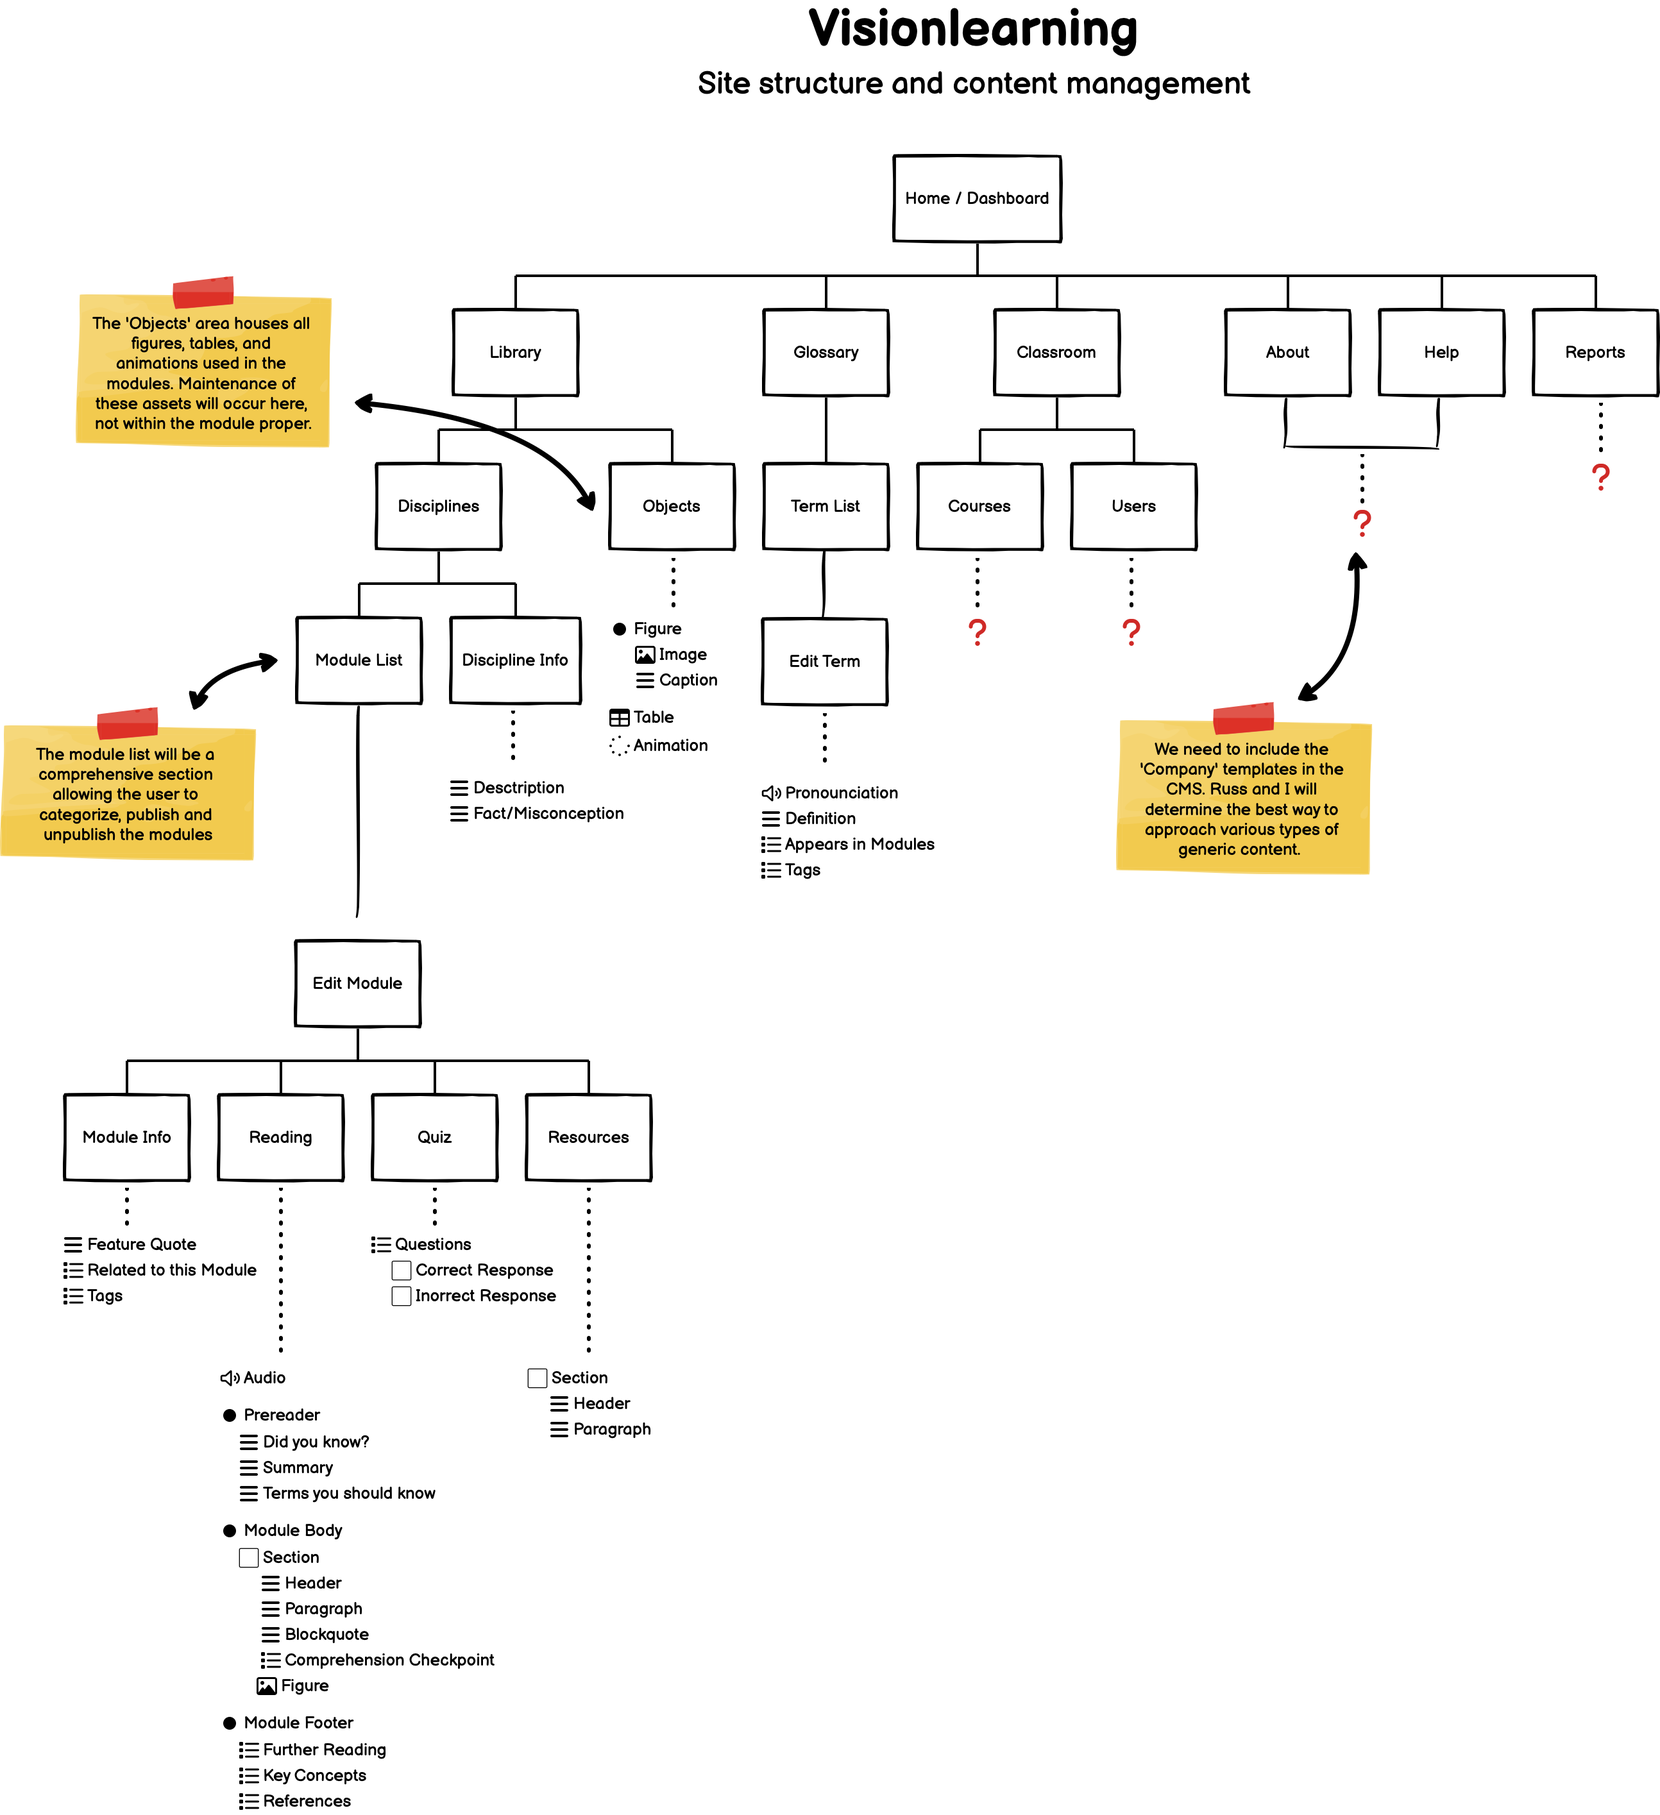
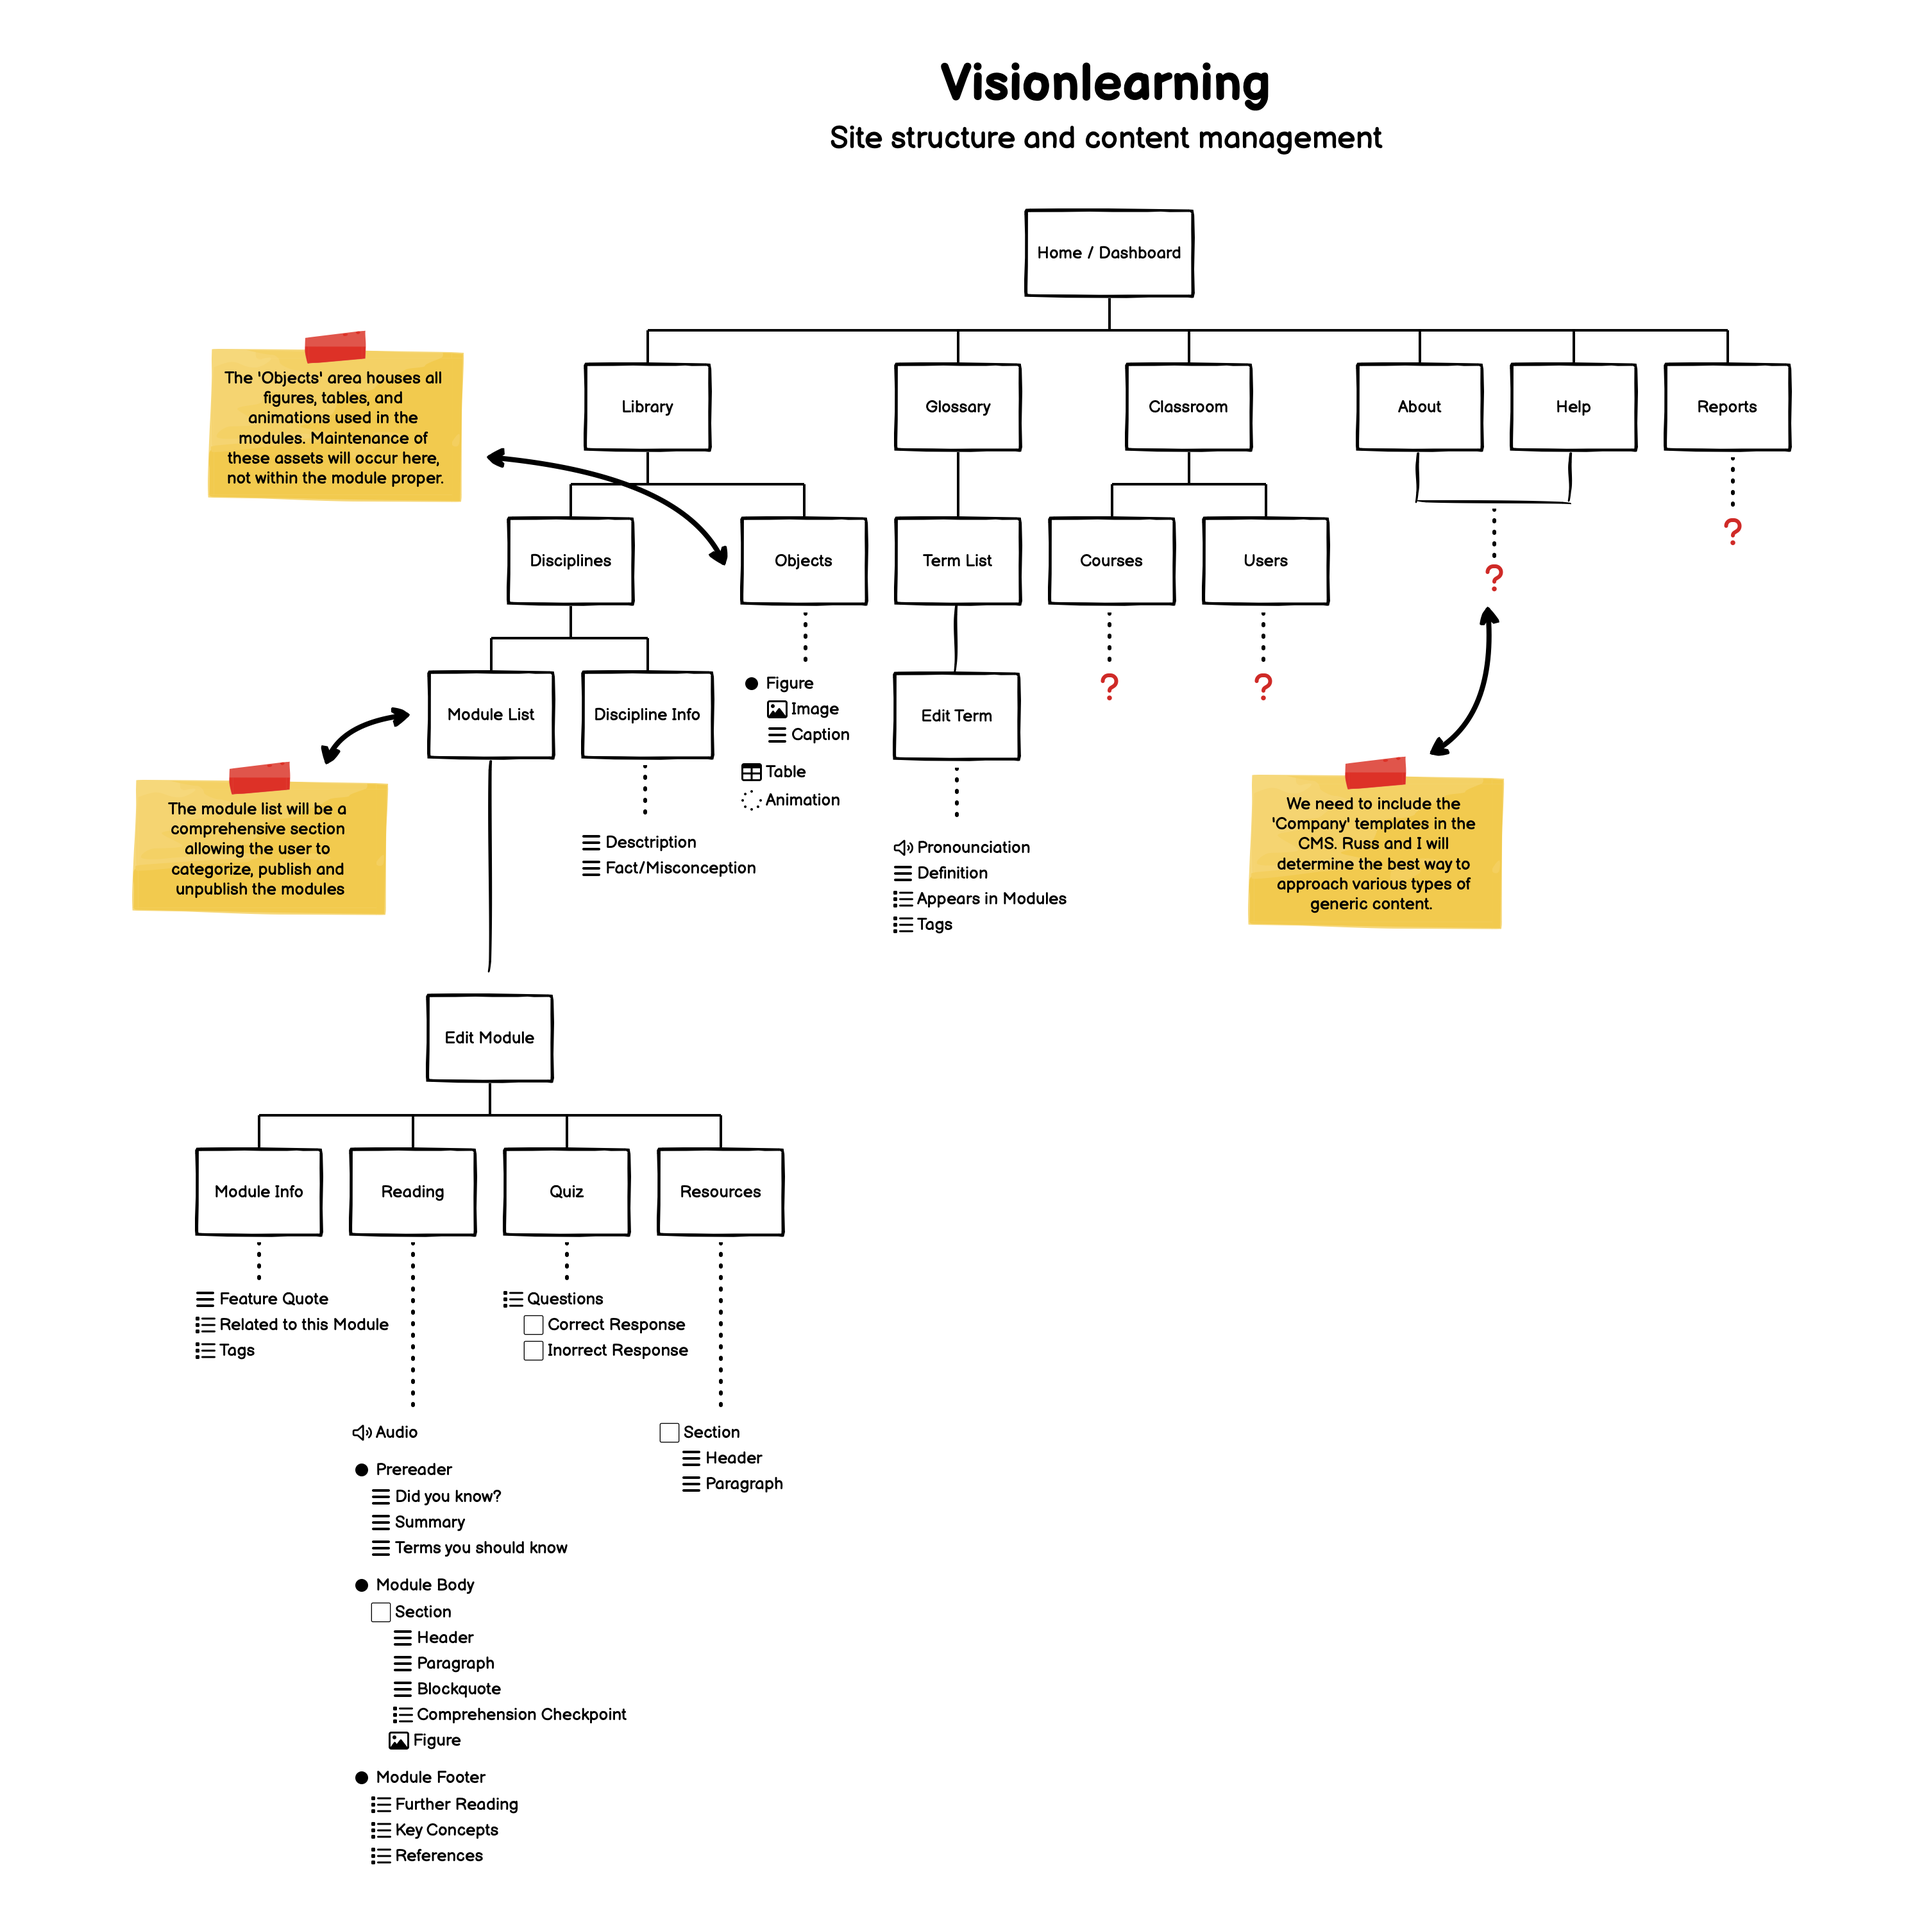
Refresh padded site map and remove Natura11y section

diff --git a/context/case-studies.md b/context/case-studies.md
@@ -634,3 +634,10 @@ Carl requested removing the large homepage-evolution figure from Looking back be
 ### September 29 public-site wireframes consolidated
 
 Carl requested one six-screen grid with a brief introduction, allowing the clear images to carry the sequence as in Phoenix. Pushed `visionlearning-case-study` at `c4e4d85` and `visionlearning-legacy` at `5220624` to GitHub before editing. Consolidated Homepage, Browsing a discipline, Glossary, Reading, Quiz, and Quiz results into one three-column, two-row CaseStudyScreens group, retaining the existing blue theme, screen labels, source images, descriptions, and full-image lightboxes. Replaced the two explanatory blocks with one short paragraph and one shared caption. All copy and figures outside that public-site section remain unchanged.
+
+
+### September 29 padded map and Natura11y section removal
+
+Refreshed the site/content map from Carl’s padded Figma frame `1352:3131` in Portfolio (`RELqPD0MlE9xfVLxRMGJTR`). The original frame is 1500 × 1500; its 2× PNG export is 3000 × 3000. It replaces `src/images/visionlearning/wireframes/site-map.png`, preserving the frame’s white padding and proportions. Set a 2× PNG export preset on the frame for later updates. Page width, caption, description, and lightbox behavior are unchanged.
+
+Carl rejected the separate “Carrying the work into Natura11y” section as confusing and excessive. Removed that entire section and its case-study link. Scientific imagery now leads directly to Looking back, with all reflection prose unchanged. Do not restore a separate Natura11y section based on the earlier outline.
